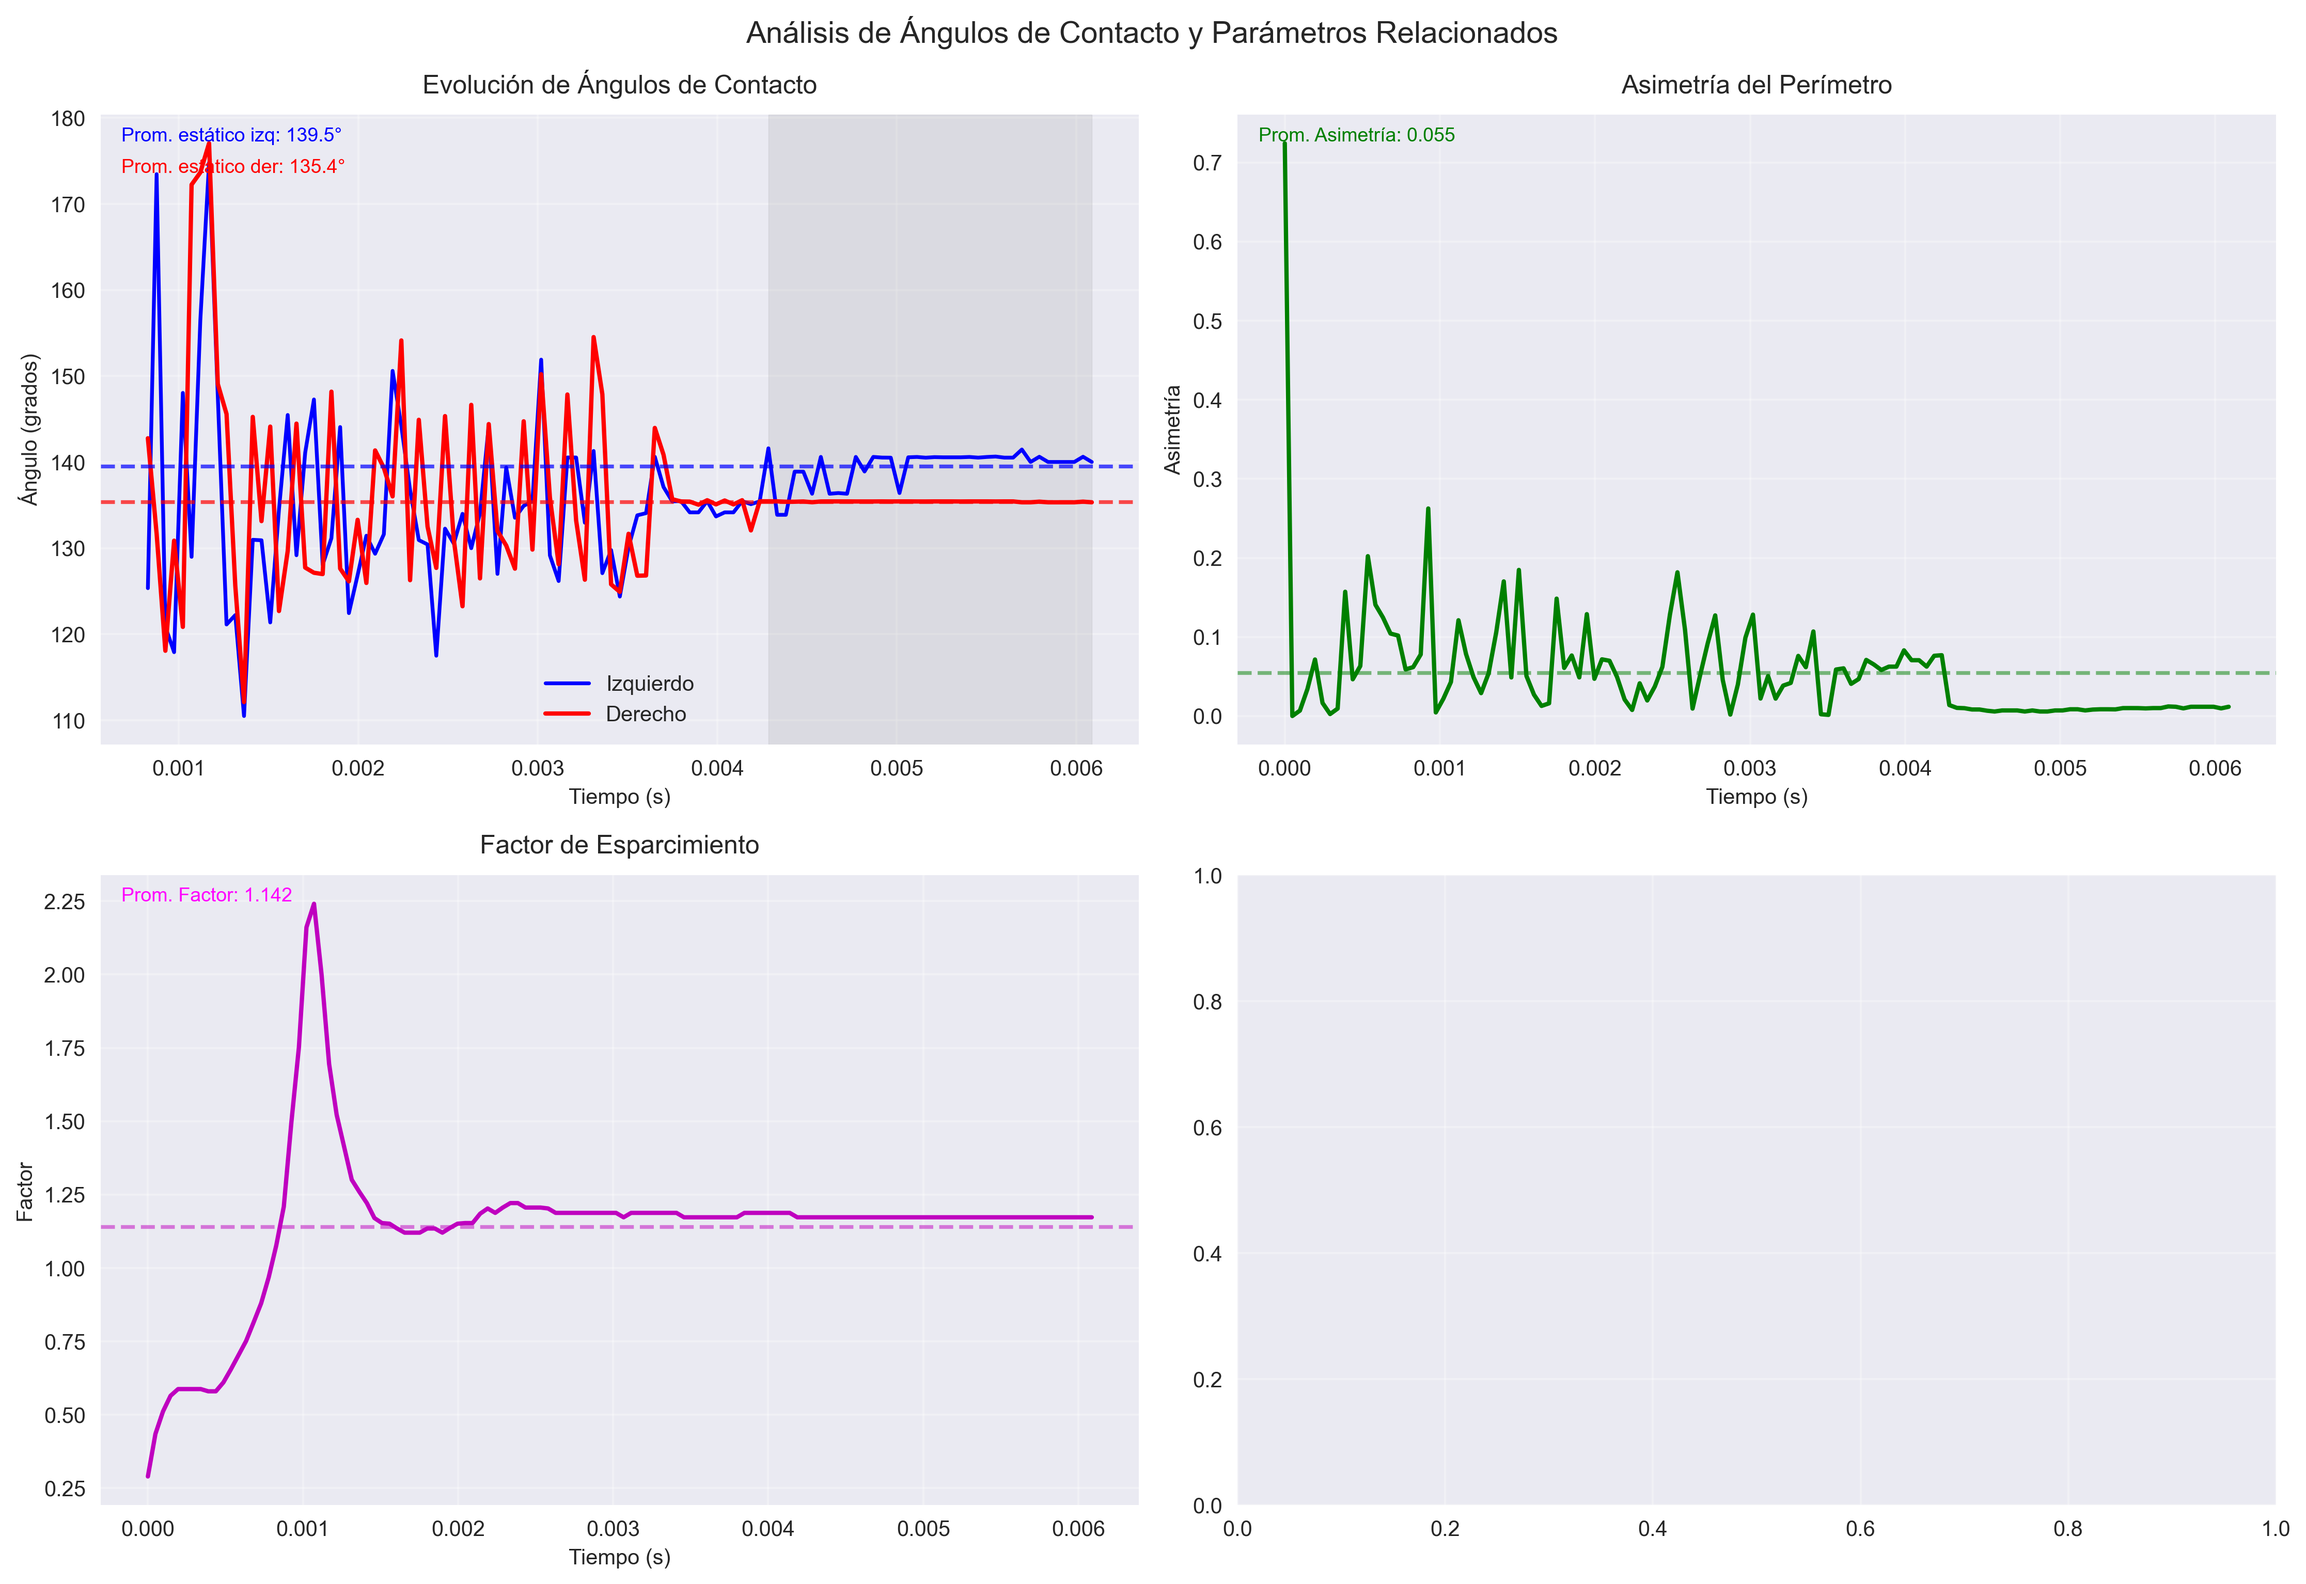
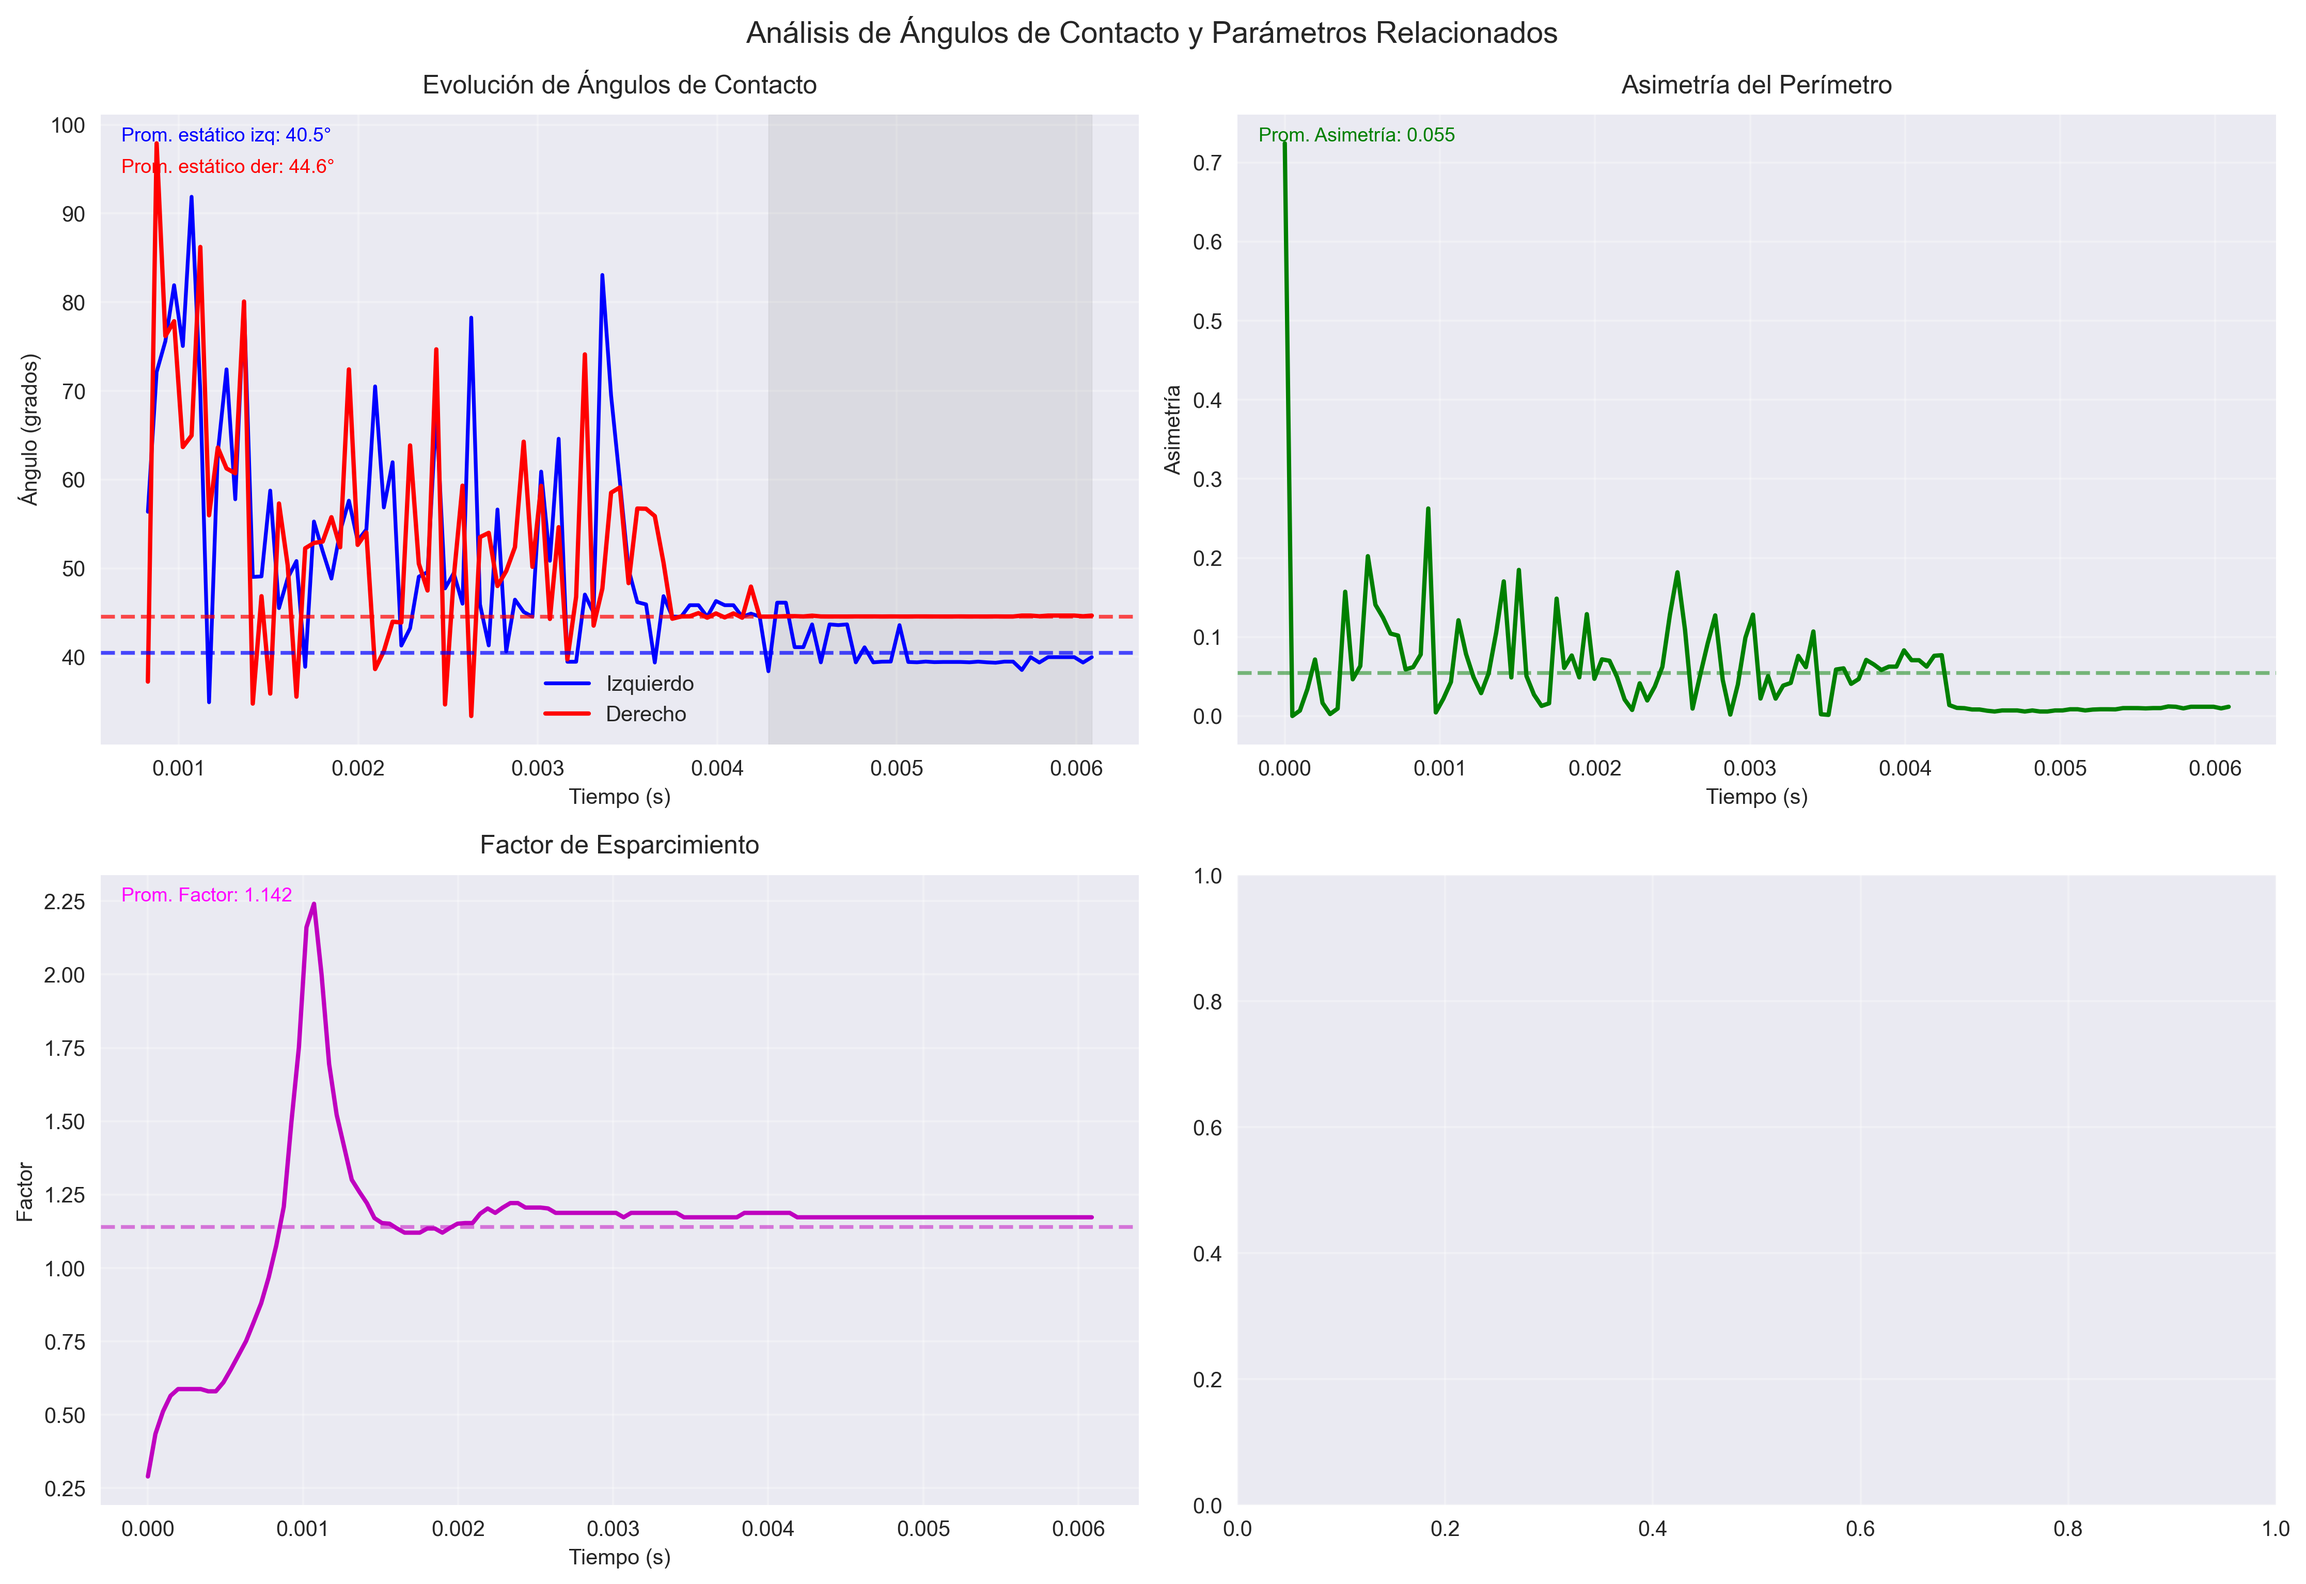
angulos normales

Changed region(s): [[0.0623, 0.0929, 0.467, 0.4335]]

diff --git a/tp4_ejercicio2.py b/tp4_ejercicio2.py
@@ -156,28 +156,20 @@ def calcular_angulo_contacto(df_ajustes, altura_contacto=50, tol_centroide_um=1.
                     dxdy_izq = np.asarray(dxdy_izq, dtype=float)
 
                     if np.any(np.isfinite(dxdy_izq)):
-                        finite_mask = np.isfinite(dxdy_izq)
-                        slopes = dxdy_izq[finite_mask]
-                        y_sel = y_eval[finite_mask]
+                        valid_vals = dxdy_izq[np.isfinite(dxdy_izq)]
+                        median = np.median(valid_vals)
+                        mad = np.median(np.abs(valid_vals - median))
+                        mask = np.abs(valid_vals - median) < 2.0 * mad
 
-                        # Filtro robusto (MAD) sobre pendientes
-                        median = np.median(slopes)
-                        mad = np.median(np.abs(slopes - median))
-                        if mad == 0:
-                            keep = np.ones_like(slopes, dtype=bool)
-                        else:
-                            keep = np.abs(slopes - median) < 2.0 * mad
+                        if np.any(mask):
+                            weights = np.exp(-y_eval[np.isfinite(dxdy_izq)][mask] / altura_contacto)
 
-                        if np.any(keep):
-                            slopes_k = slopes[keep]
-                            y_k = y_sel[keep]
-                            weights = np.exp(-y_k / altura_contacto)
+                            theta_left = float(np.average(
+                                np.degrees(np.arctan2(1.0, valid_vals[mask])),
+                                weights=weights
+                            ))
 
-                            # Ángulo geométrico local de la tangente
-                            theta_deg = np.degrees(np.arctan2(1.0, slopes_k))
-                            # Mapear a ángulo de contacto DENTRO del líquido
-                            contacto_deg = np.where(slopes_k >= 0.0, 180.0 - theta_deg, theta_deg)
-                            angulo_izq = float(np.average(contacto_deg, weights=weights))
+                            angulo_izq = 180 - theta_left
                 except Exception as e:
                     angulo_izq = np.nan
 
@@ -192,28 +184,18 @@ def calcular_angulo_contacto(df_ajustes, altura_contacto=50, tol_centroide_um=1.
                     dxdy_der = np.asarray(dxdy_der, dtype=float)
 
                     if np.any(np.isfinite(dxdy_der)):
-                        finite_mask = np.isfinite(dxdy_der)
-                        slopes = dxdy_der[finite_mask]
-                        y_sel = y_eval[finite_mask]
+                        valid_vals = dxdy_der[np.isfinite(dxdy_der)]
+                        median = np.median(valid_vals)
+                        mad = np.median(np.abs(valid_vals - median))
+                        mask = np.abs(valid_vals - median) < 2.0 * mad
 
-                        # Filtro robusto (MAD) sobre pendientes
-                        median = np.median(slopes)
-                        mad = np.median(np.abs(slopes - median))
-                        if mad == 0:
-                            keep = np.ones_like(slopes, dtype=bool)
-                        else:
-                            keep = np.abs(slopes - median) < 2.0 * mad
+                        if np.any(mask):
+                            weights = np.exp(-y_eval[np.isfinite(dxdy_der)][mask] / altura_contacto)
 
-                        if np.any(keep):
-                            slopes_k = slopes[keep]
-                            y_k = y_sel[keep]
-                            weights = np.exp(-y_k / altura_contacto)
-
-                            # Ángulo geométrico local de la tangente
-                            theta_deg = np.degrees(np.arctan2(1.0, slopes_k))
-                            # Mapear a ángulo de contacto DENTRO del líquido
-                            contacto_deg = np.where(slopes_k >= 0.0, 180.0 - theta_deg, theta_deg)
-                            angulo_der = float(np.average(contacto_deg, weights=weights))
+                            angulo_der = float(np.average(
+                                np.degrees(np.arctan2(1.0, valid_vals[mask])),
+                                weights=weights
+                            ))
 
                 except Exception as e:
                     angulo_der = np.nan
